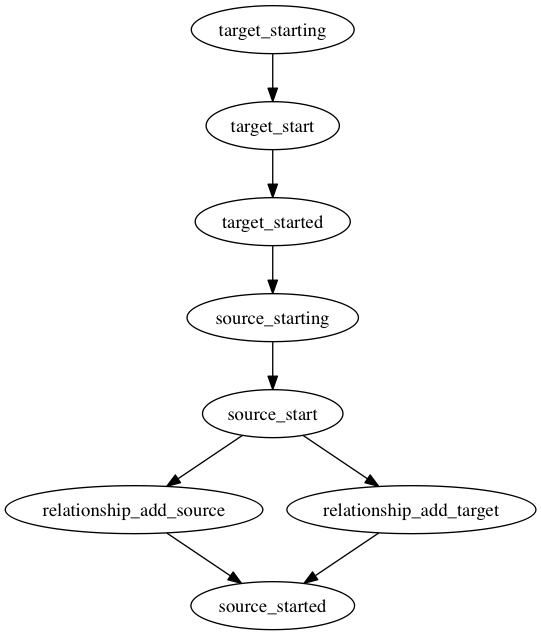
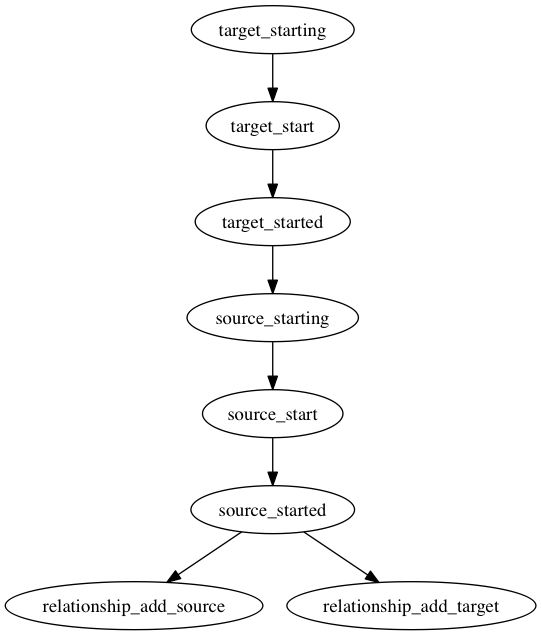
ALIEN-2544 : Document workflow updates and impacts

diff --git a/documentation/2.0.0/user_guide/topology_editor_workflows.md b/documentation/2.0.0/user_guide/topology_editor_workflows.md
@@ -10,18 +10,18 @@ weight: 180
 
 {% summary %}{% endsummary %}
 
-A workflow defines sequences of steps that act upon topology's nodes in order to achieve a defined goal.
+A workflow defines sequences of steps that act upon topology's nodes and relationships in order to achieve a defined goal.
 
 Each topology embed several workflows:
 
-- **standard** workflow (**install** and **uninstall**) : when you are designing a topology, a4c maintains the two standard workflows (install and uninstall) following the TOSCA normative lifecycle. You can customize them in order to change the way steps are orchestrated.
+- **standard** workflow (**install**, **uninstall**, **start**, **stop**) : when you are designing a topology, a4c maintains the two standard workflows (install and uninstall) following the TOSCA normative lifecycle, the two others (start and stop) workflows are Alien4Cloud specific to ease application maintenance. You can customize them in order to change the way steps are orchestrated.
 - **custom** workflows: you can create as many custom workflows as you want.
 
 We can also talk about **deduced** workflows: these workflows are deduced from standard workflows. For example, when you scale up a host, the host node installation sub-workflow is deduced from **install** workflow (by isolating all steps concerning this particular host and ignoring all other hosts and links from/to steps outside this host).
 
 # Workflow steps
 
-So a workflow is a set of steps that are eventually linked. Actually it's an oriented graph.
+So a workflow is a set of steps that are eventually linked. Actually it's a directed acyclic graph.
 
 A step can have predecessors and successors. Rules are :
 
@@ -29,15 +29,16 @@ A step can have predecessors and successors. Rules are :
 - if A is followed by B and C, then B and C will be executed in parallel after A (fork).
 - if C is preceded by A and B, then C will be executed only after A and B are terminated (join).
 - if a step has no predecessors, it will be linked from the workflow entry point (start).
-- if a step has no successors, it will be linked to the workfow end point (end).
+- if a step has no successors, it will be linked to the workflow end point (end).
 
 # Workflow activity
 
-A step is associated to an activity. Currently, an activity can be:
+A step is associated with an activity. Currently, an activity can be:
 
 - **set state** activity: this activity is used to change the state of a node.
 - **call operation** activity: used to call an operation on a node interface.
-- **delegate workflow** activity: this is used by a4c to specify that a particular node lifecycle managment should be handled by the orchestrator (consider it as a black box).
+- **delegate workflow** activity: this is used by a4c to specify that a particular node lifecycle management should be handled by the orchestrator (consider it as a black box).
+- **inline workflow** activity: Include other workflow in the current workflow.
 
 {% info %}
 <h5>Delegate activity and abstract nodes</h5>
@@ -49,13 +50,7 @@ If the node is not replaced before the deployment, it must be substituted at dep
 <h5>Node relationship operations</h5>
 When you add a node in a topology, a4c adds all the necessary steps in the standard workflows : all the operations of `tosca.interfaces.node.lifecycle.Standard` interface are added in the correct order.
 
-When you add a relation between two nodes, the steps concerning those two nodes are organized regarding the standard lifecycle rules described in TOSCA.
-
-For the moment, operation related to the relation are not added as steps in the workflow: they are implicit (actually, the cloudify orchestrator manages such operations at a lower level):
-
-- operations *pre_configure_source*, *post_configure_source* and *pre_configure_target*, *post_configure_target* are launched around *configure* operation (for respectively source and target).
-- operations *add_target* and *add_source* are launched after the *start* operation.
-- operation *remove_target* is launched after the *stop* operation.
+When you add a relationship between two nodes, the steps concerning those two nodes and those of the relationship are organized regarding the standard lifecycle rules described in TOSCA.
 {%endwarning%}
 
 {%warning%}
@@ -74,25 +69,23 @@ Editing a complex workflow can become a mess if you have a lot of nodes and rela
 
 Basic usage rules are:
 
-- the first time you click on a step, it's spinned (and becomes blue). The spinned step is the one on whitch you will be able to make some actions. All possible actions on the spinned step are listed in the panel at the right of the screen.
+- the first time you click on a step, it's spinned (and becomes blue). The spinned step is the one on which you will be able to make some actions. All possible actions on the spinned step are listed in the panel at the right of the screen.
 
-[![*Topology version](../../images/user_guide/application/wf-edition1.png)](../../images/user_guide/application/wf-edition1.png){:target="_blank"}
+[![*Topology version](../../images/2.0.0/user_guide/applications/wf-edition1.png)](../../images/user_guide/application/wf-edition1.png){:target="_blank"}
 
-In the image above, we have selected the step named 'create' (apache create operation) and we are about to insert an operation call.
+In the image above, we have selected the step named 'create' and we are about to insert an operation call.
 
-- when a step is spinned, when you click again on other steps, you will add them to the selection (yellow background). Then you will be able to make actions between the spinned step and the selected steps. In the image below, we are adding a link between the apache.create and the php.create
+- when a step is spinned, when you click again on other steps, you will add them to the selection (yellow background). Then you will be able to make actions between the spinned step and the selected steps. In the image below, we are adding a link between the tomcat.started and the java.add_target steps.
 
-[![*Topology version](../../images/user_guide/application/wf-edition2.png)](../../images/user_guide/application/wf-edition2.png){:target="_blank"}
+[![*Topology version](../../images/2.0.0/user_guide/applications/wf-edition2.png)](../../images/user_guide/application/wf-edition2.png){:target="_blank"}
 
-When you edit a workflow, some validation are checked and some errors can be raised:
+When you edit a workflow, some validations are checked and some errors can be raised:
 
-- cycle are avoided.
-- state changes are not allowed in parallel for a given node.
-- state changes must follow a defined order (typically started can not be set before created).
+- cycles are not accepted.
 
 In the image above, a cycle is detected and an error is raised.
 
-[![*Topology version](../../images/user_guide/application/wf-edition3-error-cycle.png)](../../images/user_guide/application/wf-edition3-error-cycle.png){:target="_blank"}
+[![*Topology version](../../images/2.0.0/user_guide/applications/wf-edition3-error-cycle.png)](../../images/user_guide/application/wf-edition3-error-cycle.png){:target="_blank"}
 
 Some actions are not allowed:
 
